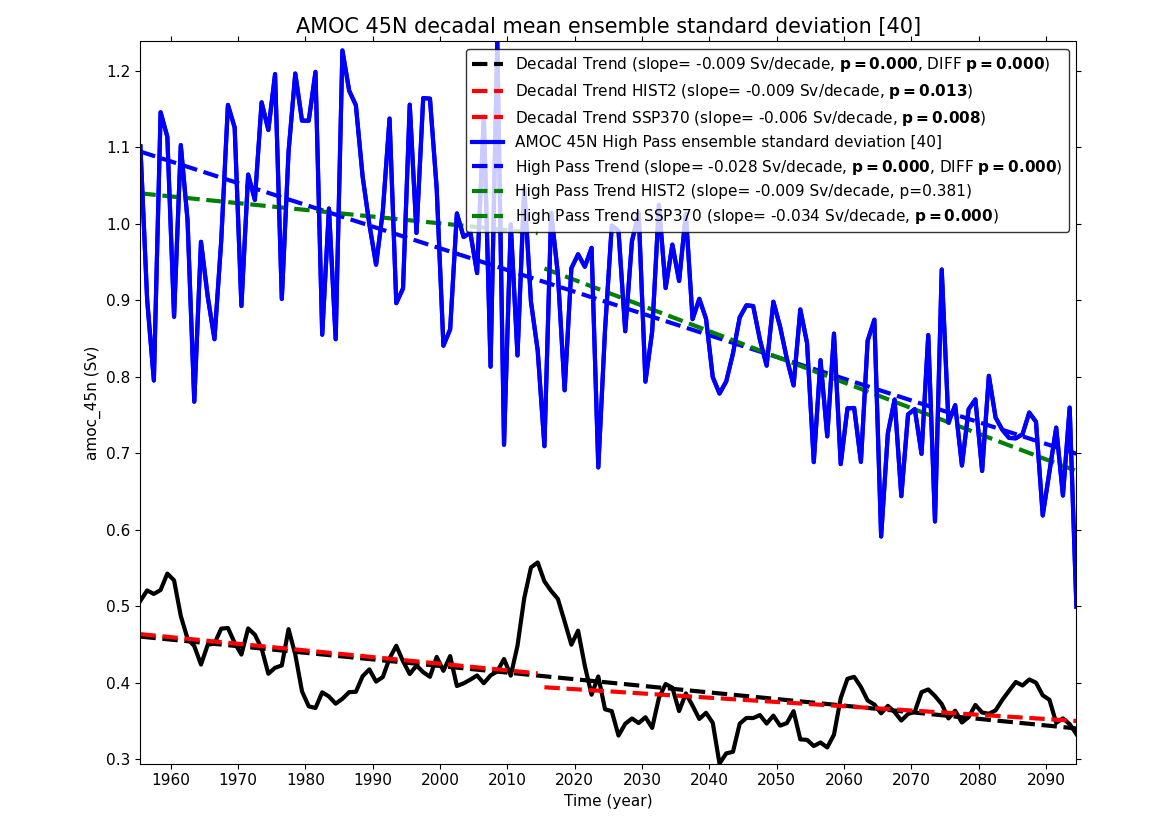
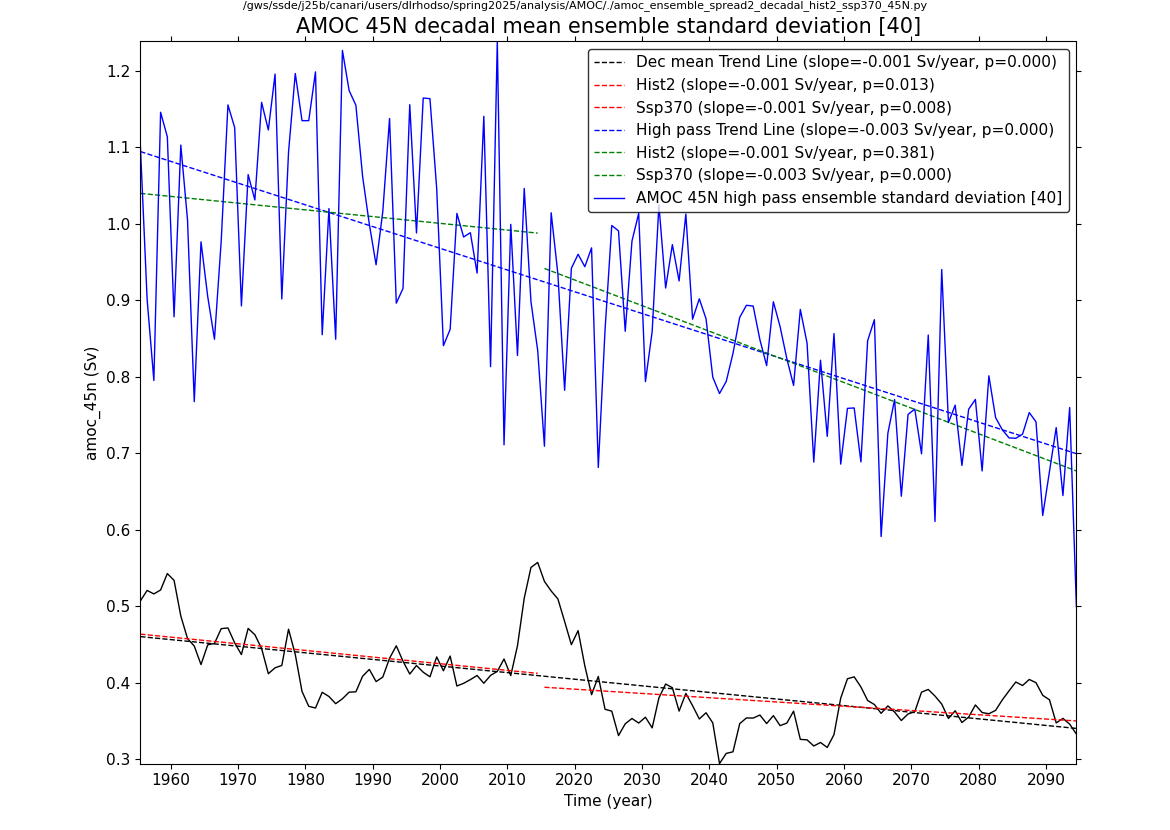
Update plots

Changed region(s): [[0.1231, 0.0, 0.9231, 0.6627], [0.1231, 0.6627, 0.9231, 0.9036], [0.1231, 0.6928, 0.1538, 0.7229]]

diff --git a/CANARI/Analysis/AMOC/amoc_ensemble_spread2_decadal_hist2_ssp370_45N_4311ae5d.html b/CANARI/Analysis/AMOC/amoc_ensemble_spread2_decadal_hist2_ssp370_45N_4311ae5d.html
@@ -1,0 +1,38 @@
+<!DOCTYPE html>
+<html>
+<head>
+  <meta charset="utf-8">
+  <title>CANARI Decadal and High Pass AMOC at 45N ensemble standard deviation - HIST2 and SSP370 trends</title>
+  <style>
+    body {
+      font-family: sans-serif;
+      text-align: center;
+      padding: 2em;
+    }
+    .nav {
+      margin-bottom: 2em;
+    }
+    img {
+      max-width: 90%;
+      height: auto;
+    }
+    .title {
+      font-size: 1.5em;
+      margin-top: 1em;
+    }
+    .path {
+      font-style: italic;
+      color: #666;
+      margin-top: 0.5em;
+    }
+  </style>
+</head>
+<body>
+<div class="nav">
+    <a href="index.html">⬅ Back to gallery</a>
+  </div>
+  <img src="amoc_ensemble_spread2_decadal_hist2_ssp370_45N.png" alt="CANARI Decadal and High Pass AMOC at 45N ensemble standard deviation - HIST2 and SSP370 trends">
+  <div class="title">CANARI Decadal and High Pass AMOC at 45N ensemble standard deviation - HIST2 and SSP370 trends</div>
+  <div class="path">/gws/ssde/j25b/canari/users/dlrhodso/spring2025/analysis/AMOC/amoc_ensemble_spread2_decadal_hist2_ssp370_45N.png</div>
+</body>
+</html>